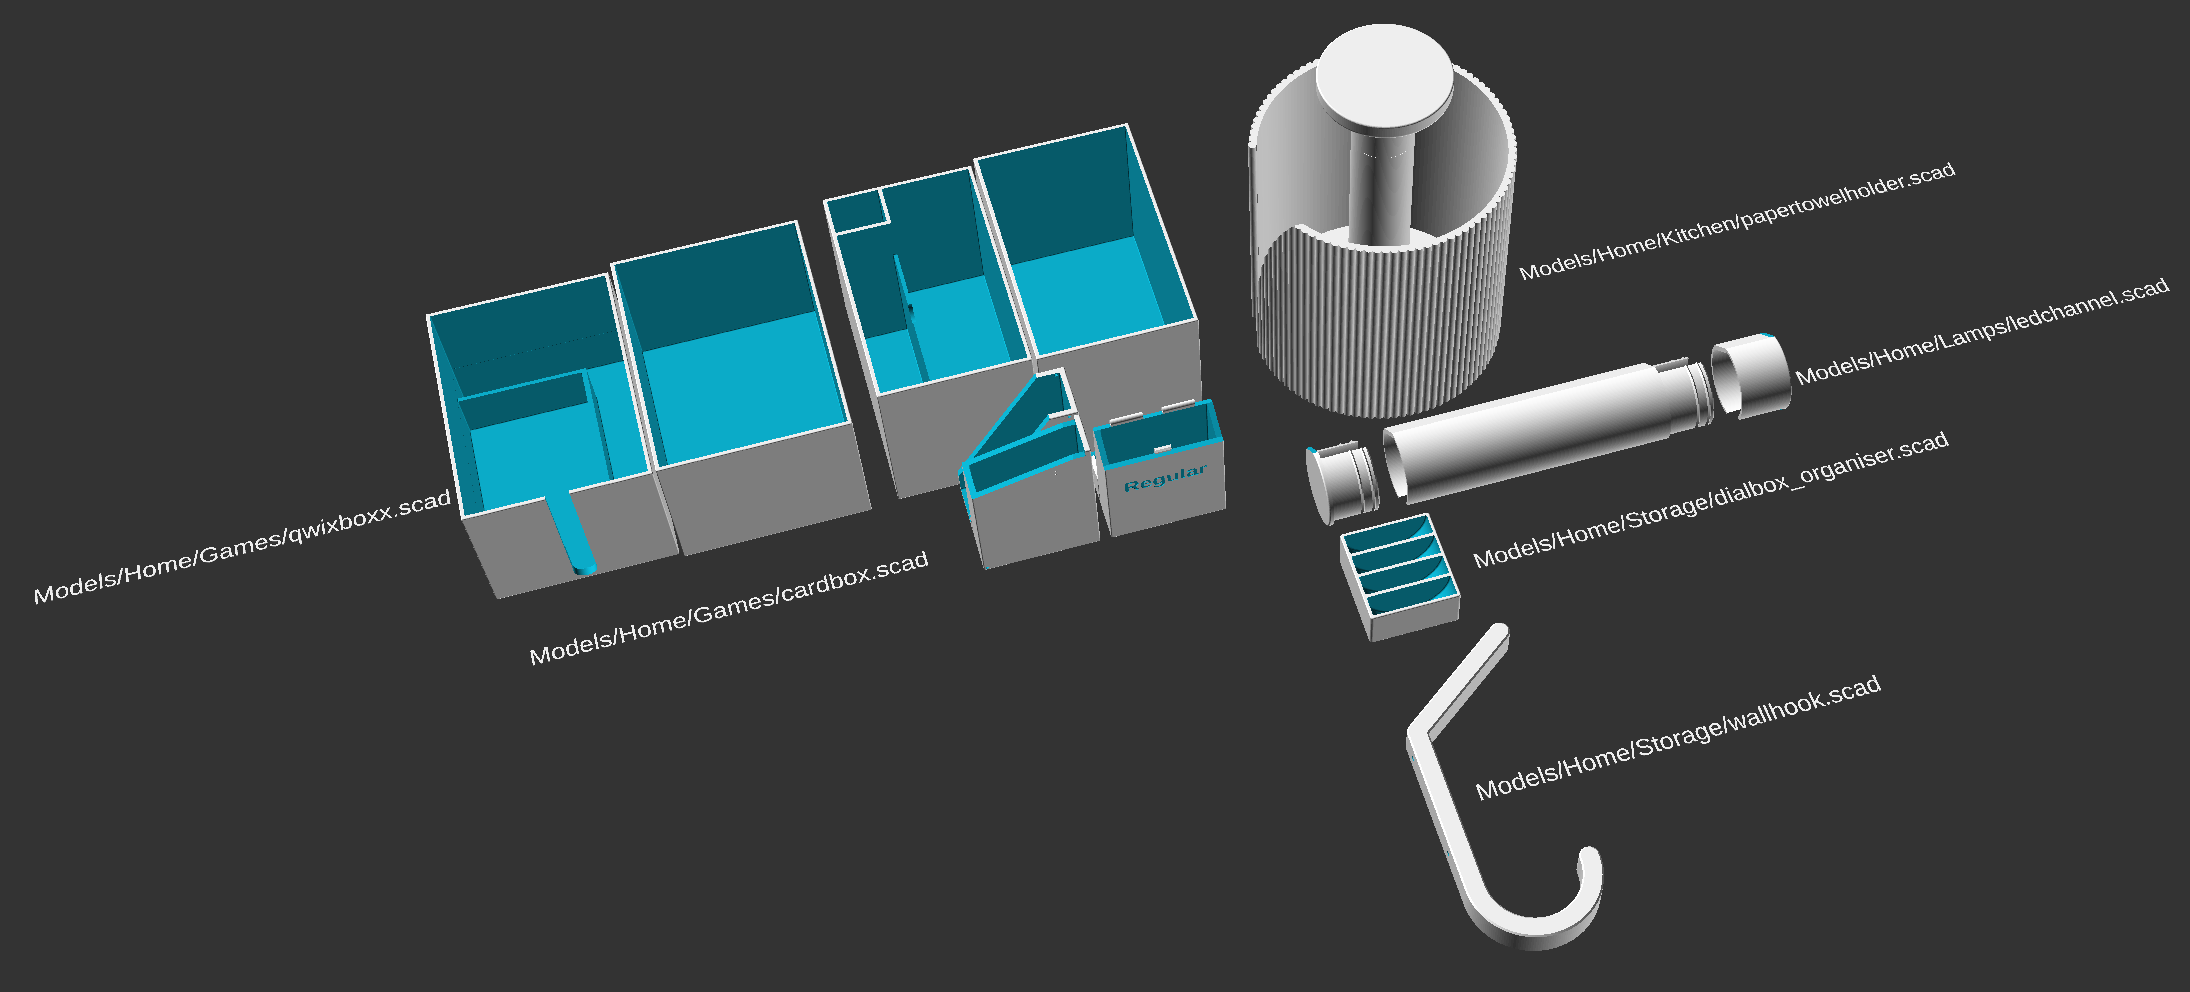
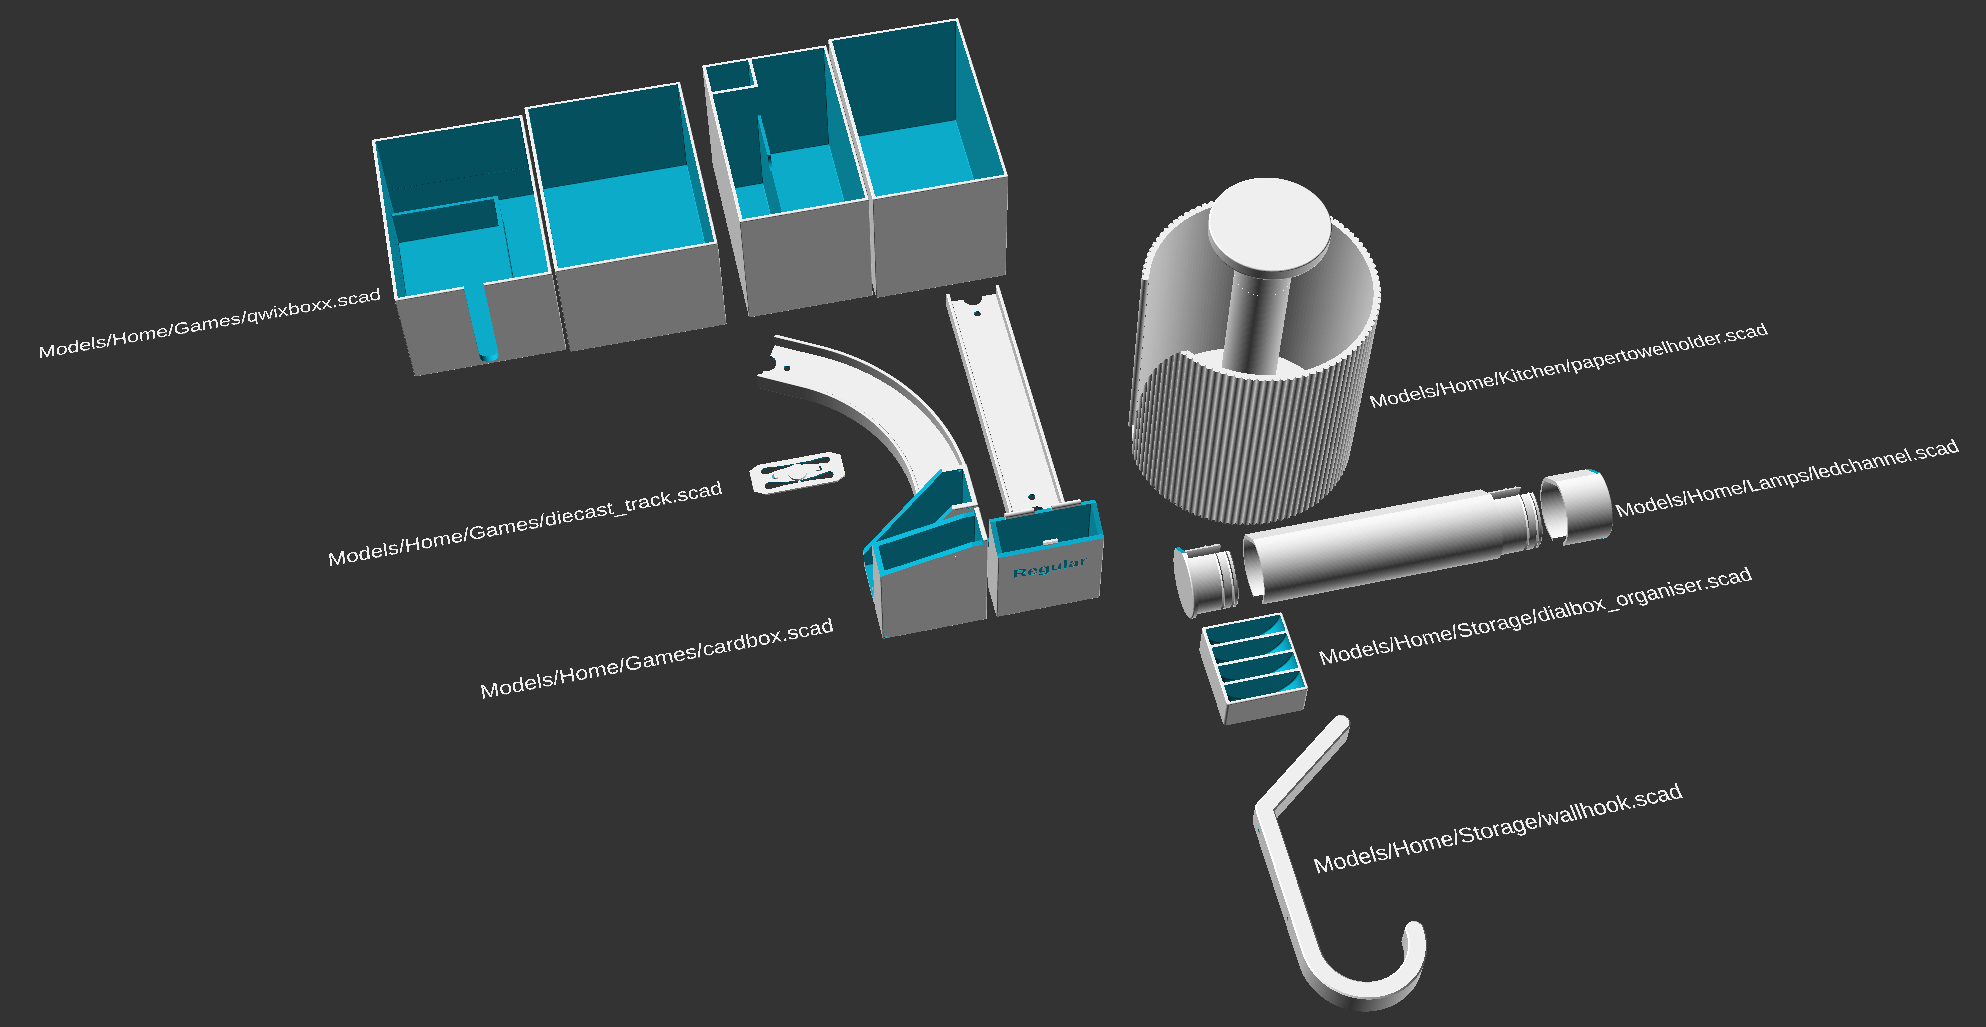
Add diecast_track.scad to readme and example files

diff --git a/README.md b/README.md
@@ -13,6 +13,7 @@ The used folder structure is an attempt to quickly locate a specific script by u
 | File | Description |
 | --- | --- |
 | `cardbox.scad` | Parameterised box to store playing cards. Useful features are multiple designs, configurable sections and ability to add text. |
+| `diecast_track.scad` | Parameterised hot diecast track parts. Multiple dimensionally configurable track types (straight, curved). All tracktypes can be connected with separate connector pieces (also included). |
 | `qwixxbox.scad` | Parameterised box to store scorecards and dice for a popular dice-game. |
 
 ### Home/Kitchen
